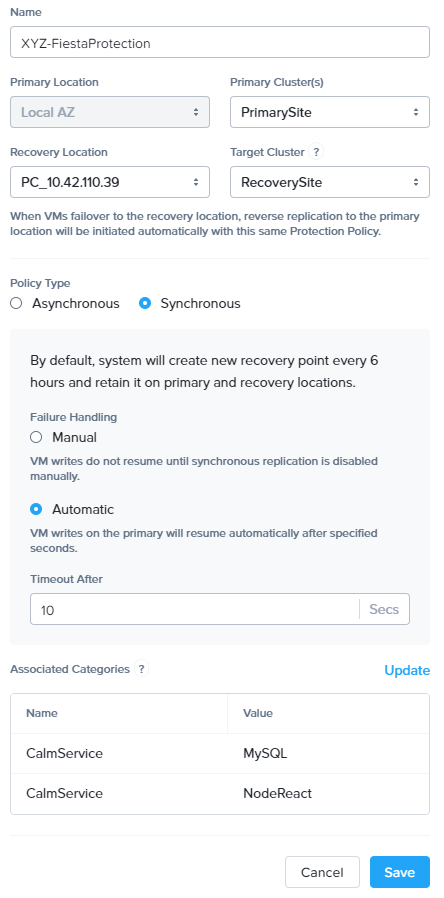
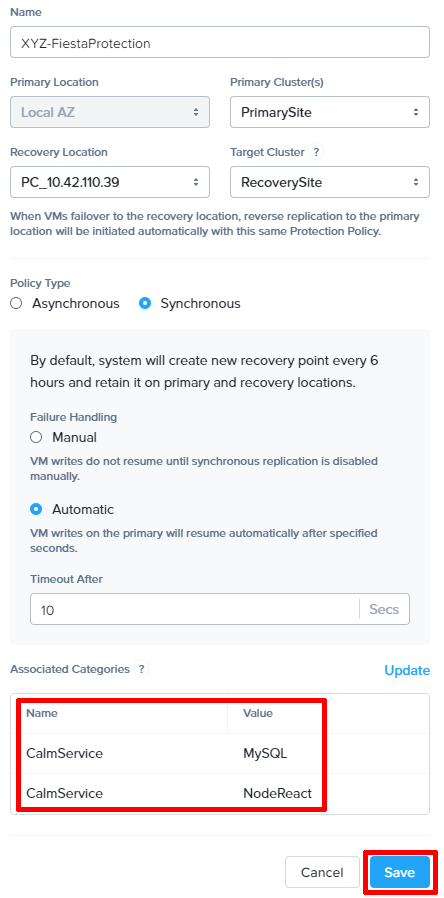
7-9-20.2
Images

Changed region(s): [[0.0293, 0.7795, 0.7613, 0.9042], [0.8198, 0.9354, 0.9955, 0.9978]]

diff --git a/onpremleap2_UPFO/onpremleap2_UPFO.rst b/onpremleap2_UPFO/onpremleap2_UPFO.rst
@@ -35,7 +35,7 @@ Creating a new Availability Zone
    .. figure:: images/AZ/3.png
        :align: right
 
-#. Observe that the **RecoverySite** cluster is now listed as *Physical*, and its *Connectivity Status* is listed as *Reachable*
+#. Observe that the **RecoverySite** cluster is now listed as *Physical*, and its *Connectivity Status* is listed as *Reachable*.
 
 Staging Guest Script
 ++++++++++++++++++++
@@ -47,6 +47,8 @@ New in 5.17, Leap allows you to execute scripts within a guest to update configu
    - **User Name** - centos
    - **Password**  - nutanix/4u
 
+
+
 #. Within the SSH session, execute the following. Click the icon in the upper right hand corner of the below window to copy the commands to your clipboard. You may then paste that within your SSH session.
 
    .. code-block:: bash
@@ -57,7 +59,9 @@ New in 5.17, Leap allows you to execute scripts within a guest to update configu
 
    .. note::
 
-      If you'd like to view the contents of the failover script, execute ``sudo cat /usr/local/sbin/production_vm_recovery``.
+      If you'd like to view the contents of the failover script, execute:
+
+      ``sudo cat /usr/local/sbin/production_vm_recovery``.
 
 #. You may now exit the SSH session.
 
@@ -87,7 +91,9 @@ Assigning A Protection Policy
 
 .. note::
 
-   Protection policies can be automatically applied based on category assignment, allowing VMs to be automatically protected from their initial provisioning. You can also add VMs individually to any protection policy. Choose one of the methods below.
+   Protection policies can be automatically applied based on category assignment, allowing VMs to be automatically protected from their initial provisioning. You can also add VMs individually to any protection policy.
+
+   **Choose one of the methods below.**
 
 Method 1 - Add VM to a protection policy
 ........................................
@@ -118,6 +124,8 @@ Method 2 - Add category to a protection policy
 #. Under *Associated Categories* add both **CalmService: MySQL** and **CalmService: NodeReact** categories.
 
    .. figure:: images/Protection/5.png
+
+#. Click **Save**.
 
 Creating A Recovery Plan
 ++++++++++++++++++++++++
@@ -165,7 +173,7 @@ Method 1 - Add VM to a Recovery Plan
 
 #. Select **VM Network** for all *Virtual Network or Port Group* entries.
 
-   .. figure:: images/15.png
+   .. figure:: images/Recovery/15.png
 
 #. Click **Done**.
 

diff --git a/onpremleap1_setup/onpremleap1_setup.rst b/onpremleap1_setup/onpremleap1_setup.rst
@@ -59,7 +59,7 @@ Leap Requirements
 
 |
 
-   You may now exit your SSH client by typing **exit** or **logout**.
+   You may now exit your SSH session.
 
 Lab Requirements
 ++++++++++++++++
@@ -210,7 +210,7 @@ You can use Blueprints to model applications of various complexities; from simpl
       gmznERCNf9Kaxl/hlyV5dZBe/2LIK+/jLGNu9EJLoraaCBFshJKF
       -----END RSA PRIVATE KEY-----
 
-   .. figure:: images/28.png
+   .. figure:: images/Calm/28.png
 
 #. Click **Save** and click **Back** once the Blueprint has completed saving.
 
@@ -228,13 +228,15 @@ We'll be utilizing Calm to quickly and easily deploy a multi-tier application (w
 #. Fill out the following fields and then click **Create** to begin provisioning your application:
 
    - **Name of the Application** - *Initials*\ -FiestaApp
-   - **user_initials** - *Initials*
+   - **user_initials**           - *Initials*
+
+
 
 #. Monitor the status of the application in the **Audit** tab and proceed once your application enters a **Running** state. This will take approximately 15 minutes to complete.
 
 #. On the **Services** tab, select the **NodeReact** service and note the IP Address. This is the web server hosting the front end of your application.
 
-#. Open http://*NodeReact-VM-IP-Address*:5001 in a new browser tab and validate you can access the Fiesta Inventory Management app.
+#. Open <http://NodeReact-VM-IP-Address:5001> in a new browser tab and validate you can access the Fiesta Inventory Management app. (ex. `<http://10.42.212.50:5001>`_)
 
    .. figure:: images/5.png
 
@@ -254,7 +256,7 @@ Installing Nutanix Guest Tools
 #. Provide the following credentials and click **Done** to begin the NGT installation:
 
    - **User Name** - centos
-   - **Password** - nutanix/4u
+   - **Password**  - nutanix/4u
 
    .. figure:: images/4c.png
 
